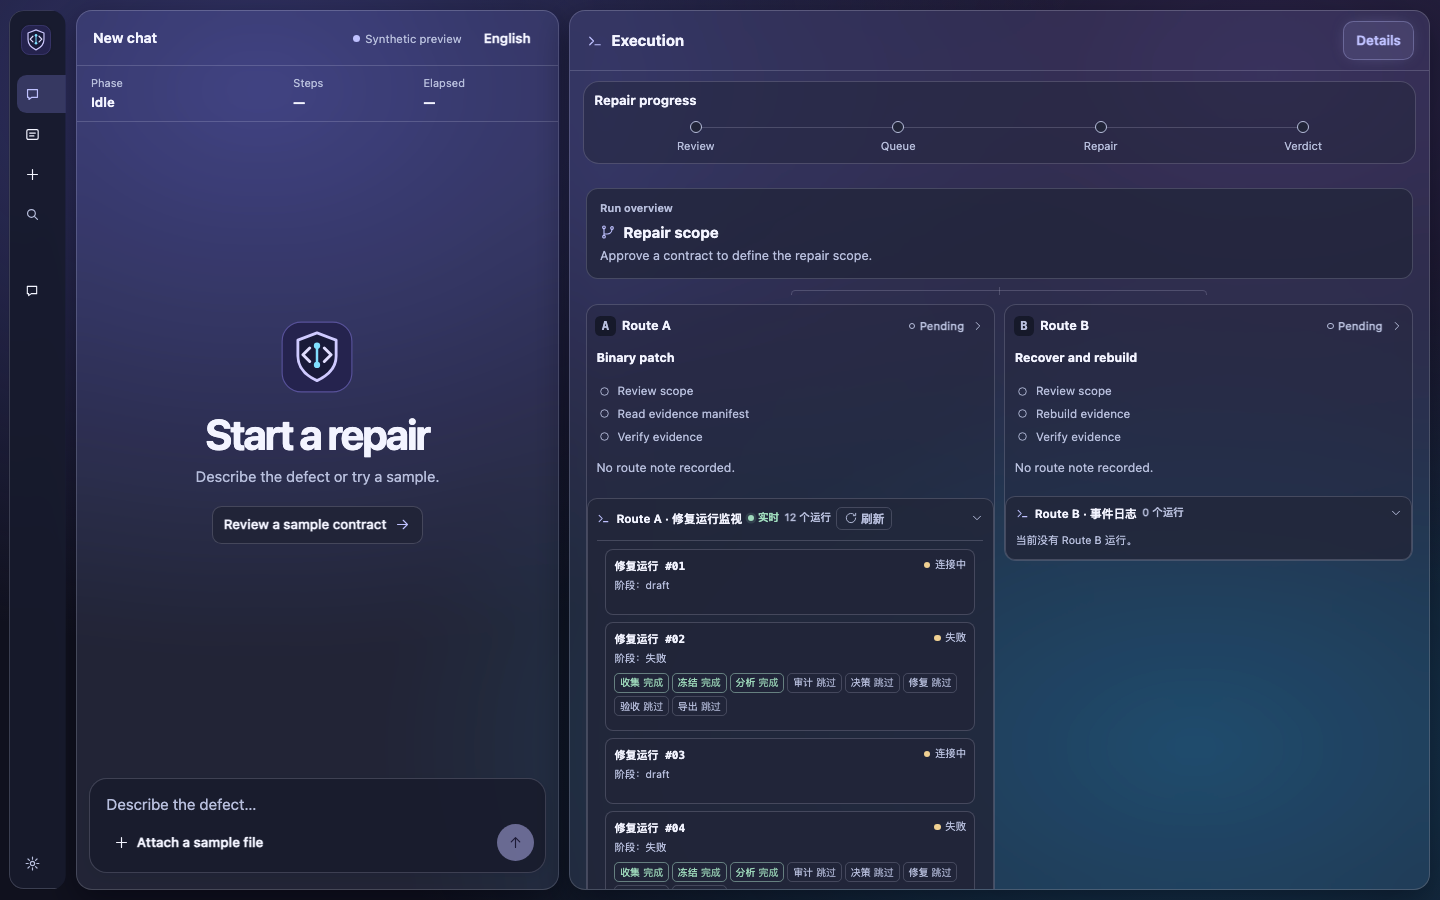
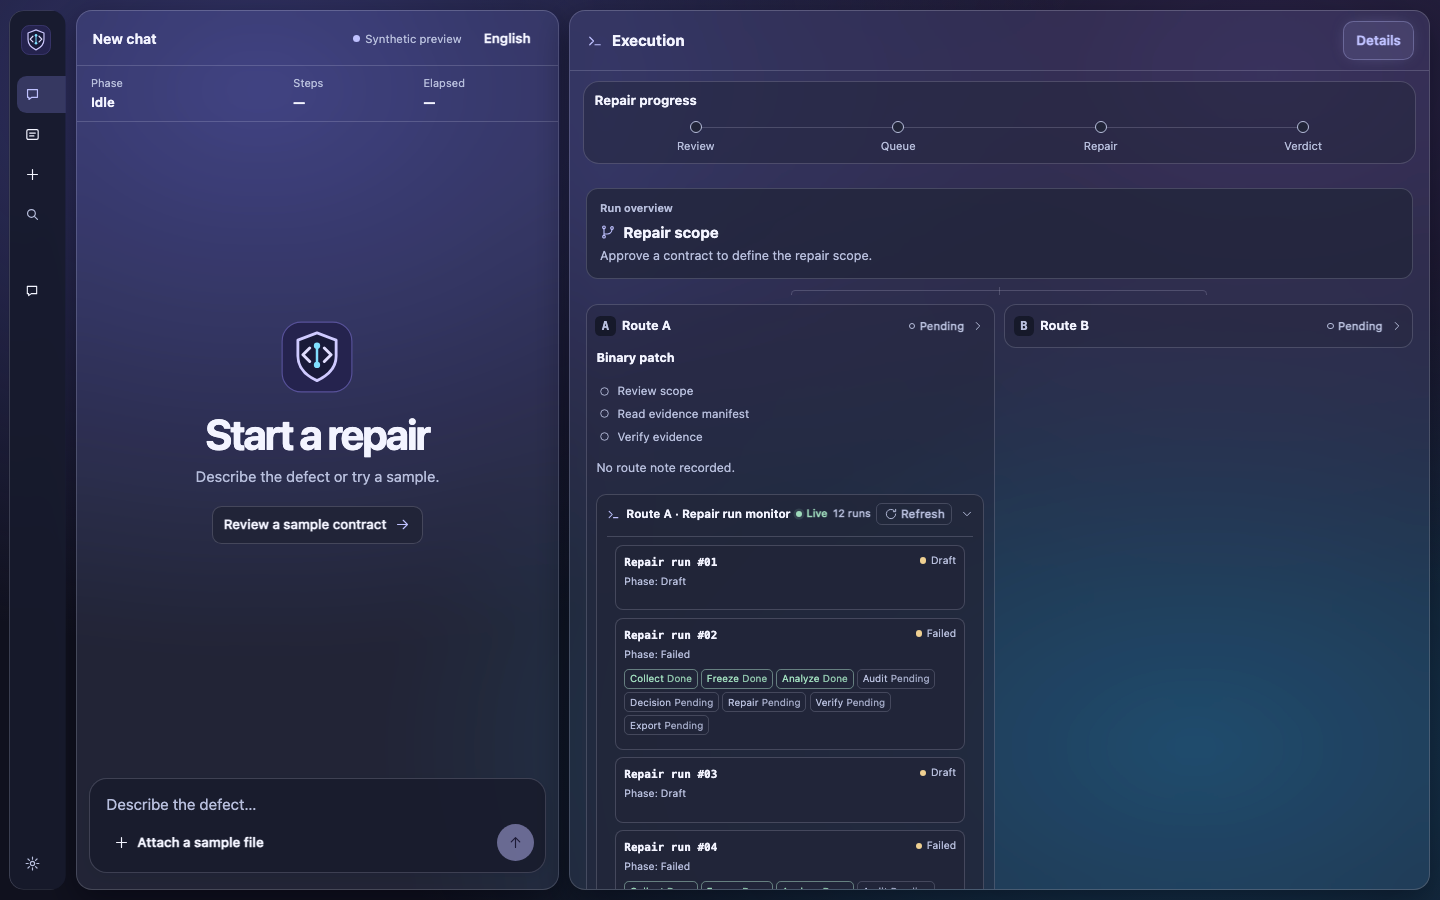
fix(gui): preserve full event rows and close idle streams

diff --git a/app/static/ui/chat/index.html b/app/static/ui/chat/index.html
@@ -17,7 +17,7 @@
   <link rel="stylesheet" href="chat/route-activity.css?v=20261121k">
   <script type="module" src="shared/perf.mjs?v=20261120au"></script>
   <script type="module" src="chat/chat-app.mjs?v=20261121m"></script>
-  <script type="module" src="chat/route-activity.mjs?v=20261121n"></script>
+  <script type="module" src="chat/route-activity.mjs?v=20261121q"></script>
 </head>
 <body>
   <a class="skip" id="skip" href="#conversation">Skip to conversation</a>

diff --git a/app/api.py b/app/api.py
@@ -335,6 +335,21 @@ def _sse(record: dict[str, Any]) -> str:
     return f"id: {record['seq']}\nevent: {event_type}\ndata: {data}\n\n"
 
 
+_LIVE_STATUSES = {"queued", "waiting_for_executor", "running", "cancelling"}
+
+
+def _task_can_stream(task: dict[str, Any]) -> bool:
+    """A task that is no longer running cannot append more journal records.
+
+    The stream must close instead of holding a browser connection open forever:
+    browsers cap concurrent connections per origin, so a handful of idle SSE
+    streams starve every other tab on the same host.
+    """
+    execution = task.get("execution") or {}
+    status = str(execution.get("status") or task.get("phase") or "")
+    return not execution.get("terminal") and status in _LIVE_STATUSES
+
+
 @router.get("/tasks/{task_id}/events", dependencies=[Depends(require_session)])
 async def task_events(
     task_id: str,
@@ -364,6 +379,12 @@ async def task_events(
                 yield _sse(record)
                 if record["type"] == "run_end":
                     return
+            try:
+                current = await asyncio.to_thread(_task, task_id)
+            except HTTPException:
+                return
+            if not _task_can_stream(current):
+                return
             if await request.is_disconnected():
                 return
             wait_started = asyncio.get_running_loop().time()

diff --git a/tests/app/test_ui_preview_assets.py b/tests/app/test_ui_preview_assets.py
@@ -82,6 +82,7 @@ class PreviewAssetsTest(unittest.TestCase):
         self.assertNotIn("ContractV1", source)
         self.assertNotRegex(source, r"[\u4e00-\u9fff]")
         self.assertIn("state.logA.groups === 0", source)
+        self.assertIn(":scope > .ra-muted", source)
 
     def test_archive_page_does_not_mount_task_bridge(self):
         for path in ("workbench/archive-bridge.css", "workbench/archive-bridge.mjs"):
